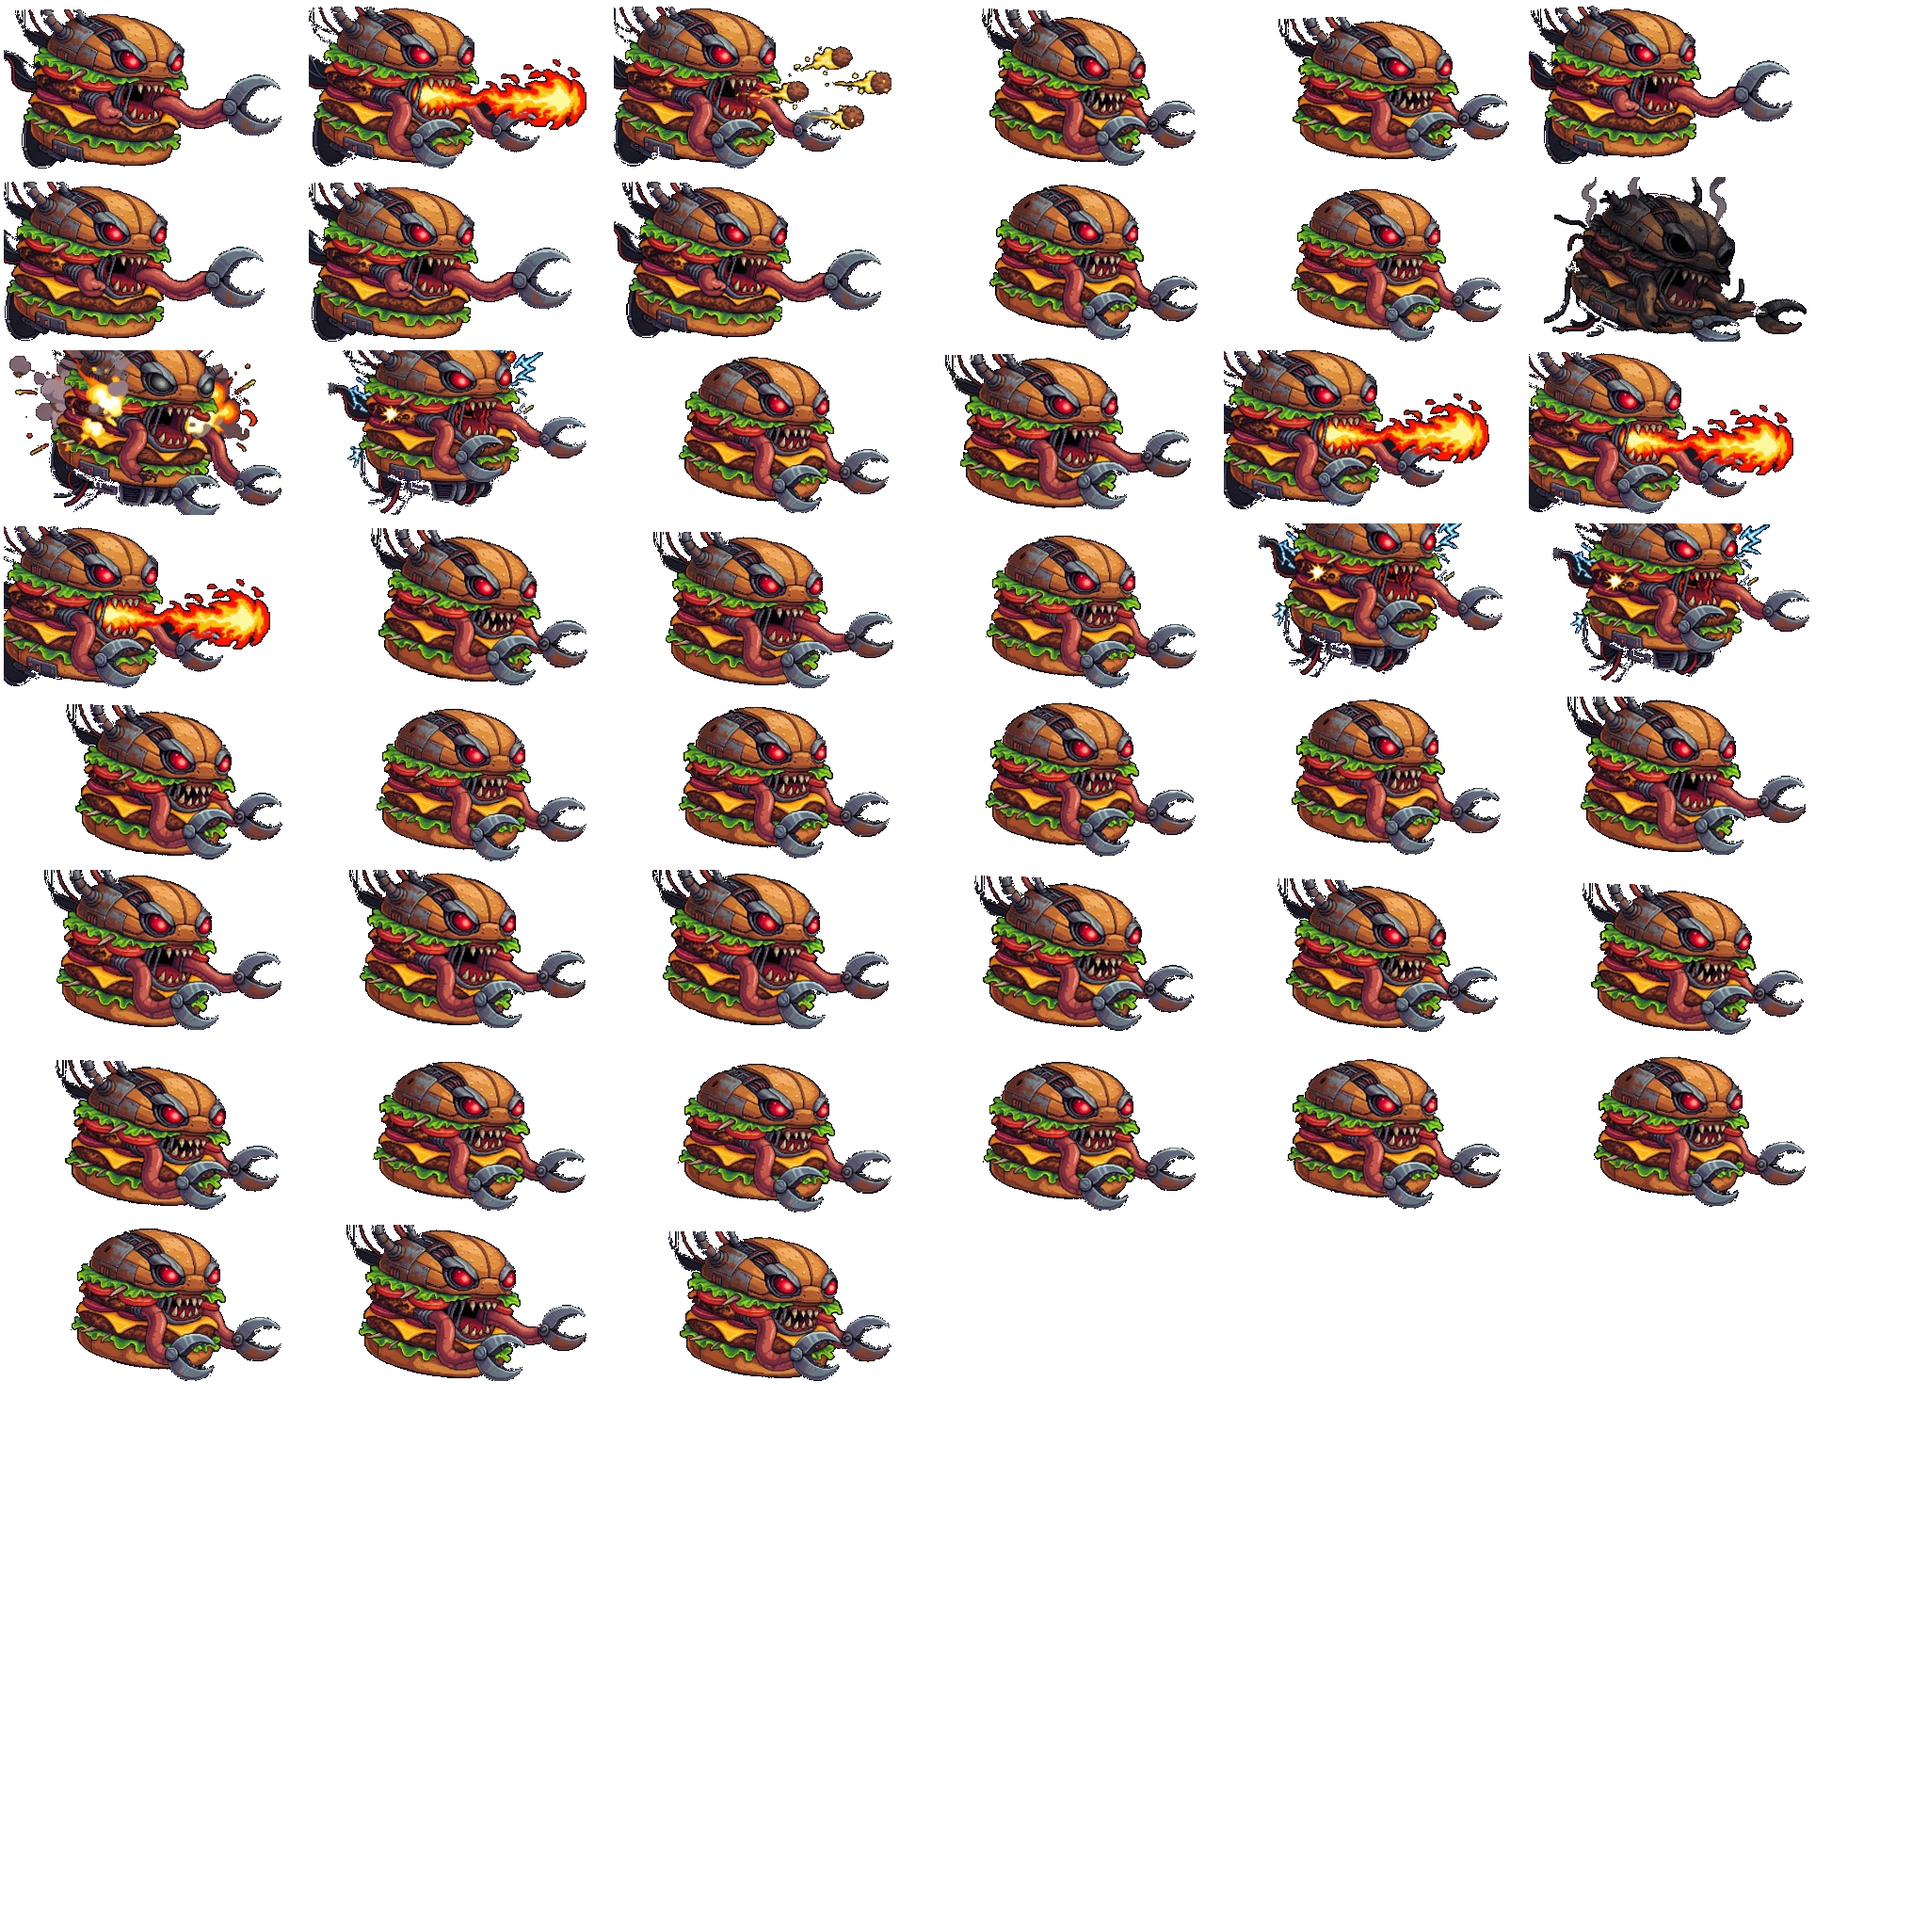
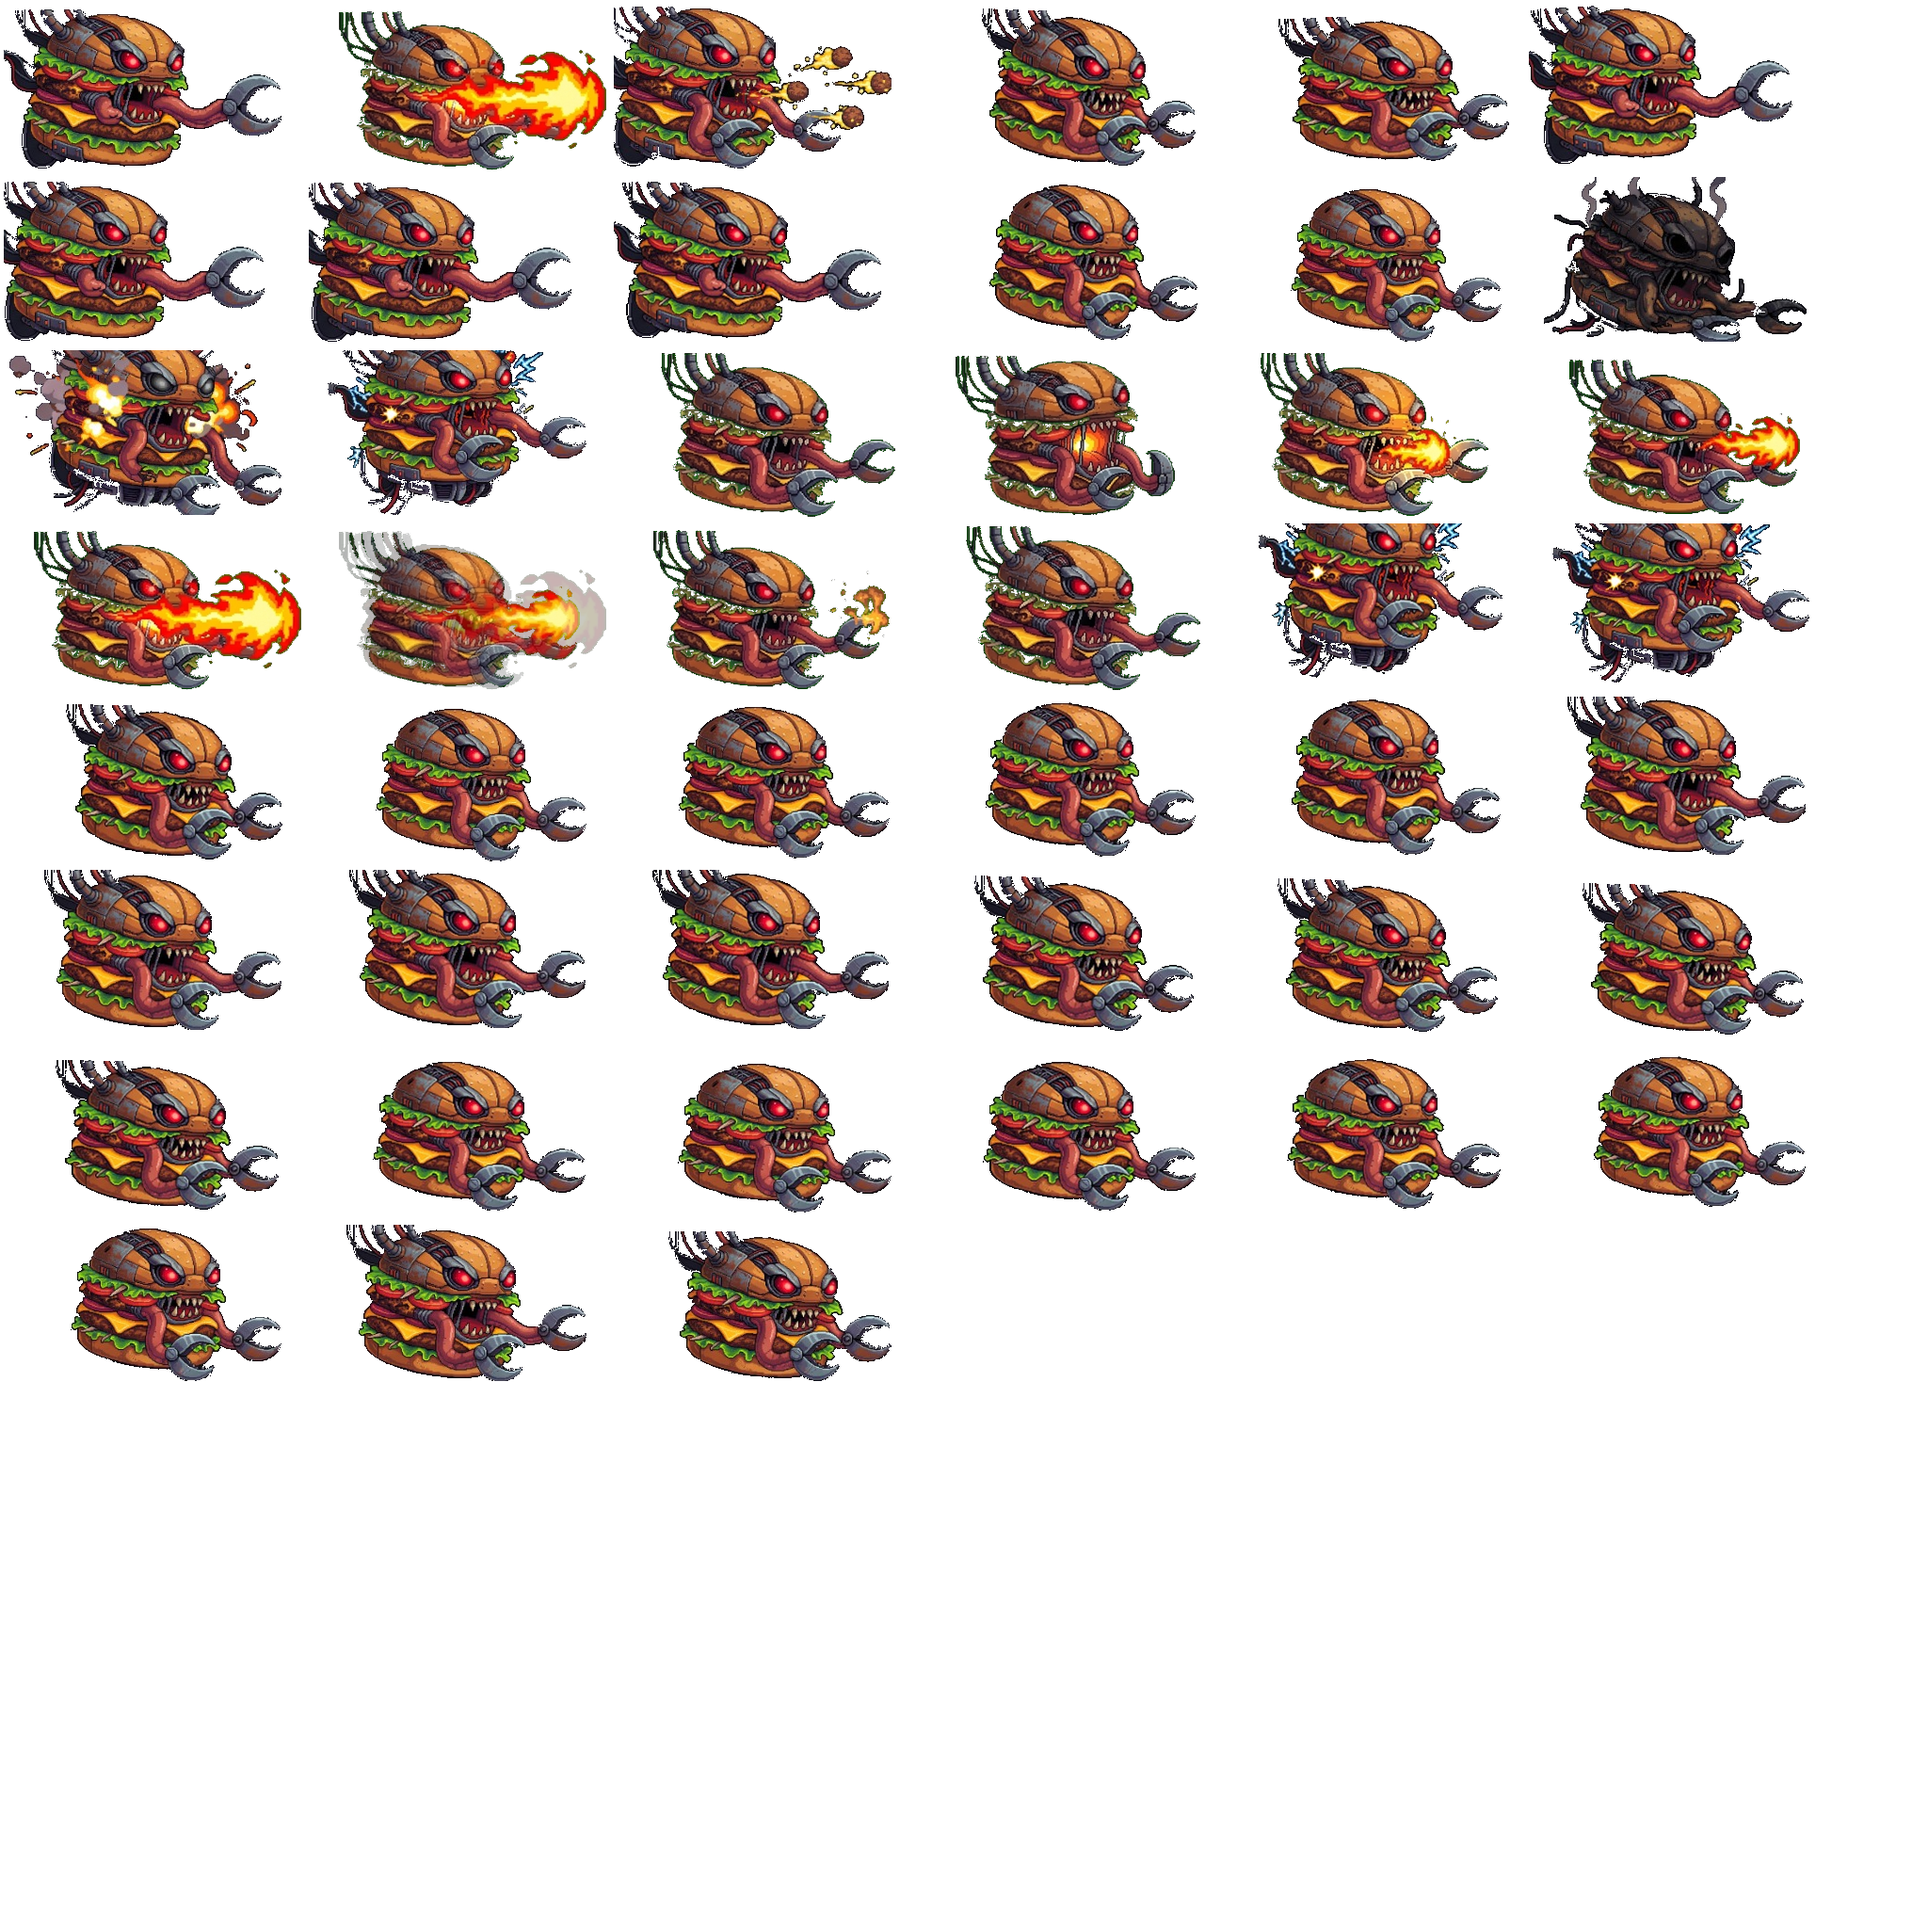
feat(boss): animacion fluida de flama de 6 fotogramas orientada al chef v116

diff --git a/js/kiloburner.js b/js/kiloburner.js
@@ -694,24 +694,52 @@ class KiloburnerBoss {
       if (this.stateTimer <= 0) this.state = 'idle';
     } else if (this.state === 'flame') {
       this.stateTimer++;
+      if (this.stateTimer === 1 && player) {
+        this.facing = (player.x < this.x) ? -1 : 1;
+      }
       // Head tilts forward slightly during flame burst
       this.lungeX = this.facing * 8;
-      const flameW = 45;
-      const flameH = 24;
-      const flameX = (this.facing === -1)
-        ? (this.x + this.lungeX - this.logicalW / 2 - flameW + 12)
-        : (this.x + this.lungeX + this.logicalW / 2 - 12);
-      const flameY = this.y - this.logicalH * 0.65;
-
-      this.flameHitbox = { x: flameX, y: flameY, w: flameW, h: flameH };
 
       // Cadence requested: 3 flames separated by 2 seconds (120 frames at 60 FPS), then wait 5 seconds (300 frames)!
       // Shot 1 fires at frame 20
       // Shot 2 fires at frame 140 (20 + 120)
       // Shot 3 fires at frame 260 (140 + 120)
       const fireFrames = [20, 140, 260];
-      const isFiring = fireFrames.some(f => (this.stateTimer >= f && this.stateTimer < f + 25));
+      const relT = (this.stateTimer < 240) ? (this.stateTimer % 120) : (this.stateTimer - 240);
+
+      // Hitbox dynamically scales with the flame sprite progression (Poses 3 -> 4 -> 5 -> 6)
+      let flameW = 45;
+      let flameH = 24;
+      let isFiring = false;
+
+      if (relT >= 20 && relT < 28) {
+        // Pose 3: Initial Burst
+        isFiring = true;
+        flameW = 40;
+        flameH = 22;
+      } else if (relT >= 28 && relT < 40) {
+        // Pose 4: Flame Jet
+        isFiring = true;
+        flameW = 65;
+        flameH = 28;
+      } else if (relT >= 40 && relT < 76) {
+        // Pose 5 & Pulse: Full Blast Massive Flamethrower
+        isFiring = true;
+        flameW = 85;
+        flameH = 34;
+      } else if (relT >= 76 && relT < 90) {
+        // Pose 6: Dissipating Embers & Smoke
+        isFiring = true;
+        flameW = 45;
+        flameH = 22;
+      }
+
       this.flameActive = isFiring;
+      const flameX = (this.facing === -1)
+        ? (this.x + this.lungeX - this.logicalW / 2 - flameW + 12)
+        : (this.x + this.lungeX + this.logicalW / 2 - 12);
+      const flameY = this.y - this.logicalH * 0.65;
+      this.flameHitbox = { x: flameX, y: flameY, w: flameW, h: flameH };
 
       // Launch flying flame projectile at each designated interval
       if (fireFrames.includes(this.stateTimer)) {
@@ -1039,20 +1067,26 @@ class KiloburnerBoss {
     } else if (this.state === 'flame') {
       // 3-shot burst animation rhythm matching 120-frame (2s) intervals
       const relT = (this.stateTimer < 240) ? (this.stateTimer % 120) : (this.stateTimer - 240);
-      if (relT < 12) {
-        spriteName = 'flame_00'; // Preparing flame
+      if (relT < 10) {
+        spriteName = 'flame_00'; // Pose 1: Preparing flame / mouth open
       } else if (relT < 20) {
-        spriteName = 'flame_01'; // Ignition spark in mouth
-      } else if (relT < 35) {
-        spriteName = 'flame_02'; // Incandescent mouth launch burst
-      } else if (relT < 50) {
-        spriteName = 'flame_03'; // Flame discharge thrust
-      } else if (relT < 65) {
-        spriteName = 'flame_04'; // Exhaust dissipation
-      } else if (relT < 80) {
-        spriteName = 'flame_06'; // Mouth closing
+        spriteName = 'flame_01'; // Pose 2: Fiery furnace charging glow inside mouth
+      } else if (relT < 28) {
+        spriteName = 'flame_02'; // Pose 3: Incandescent mouth launch burst
+      } else if (relT < 40) {
+        spriteName = 'flame_03'; // Pose 4: Expanding flame jet thrust
+      } else if (relT < 52) {
+        spriteName = 'flame_04'; // Pose 5: Full blast flamethrower
+      } else if (relT < 64) {
+        spriteName = 'flame_05'; // Pose 5/Pulse: Flame turbulence pulse
+      } else if (relT < 76) {
+        spriteName = 'flame_04'; // Pose 5: Sustained blast
+      } else if (relT < 90) {
+        spriteName = 'flame_06'; // Pose 6: Exhaust smoke & dissipating embers
+      } else if (relT < 102) {
+        spriteName = 'flame_07'; // Pose 1: Mouth closing & recovery
       } else {
-        spriteName = 'hover_04'; // Hovering between burst shots
+        spriteName = 'hover_04'; // Hovering smoothly between burst shots
       }
     } else if (this.state === 'meatball') {
       spriteName = (this.stateTimer % 10 < 5) ? 'attack_meatball' : 'hover_08';

diff --git a/index.html b/index.html
@@ -189,20 +189,20 @@
   </div>
 
   <!-- Game Scripts -->
-  <script src="js/chef_atlas.js?v=115"></script>
-  <script src="js/enemies_atlas.js?v=115"></script>
-  <script src="js/items_atlas.js?v=115"></script>
-  <script src="js/kiloburner_atlas.js?v=115"></script>
-  <script src="js/audio.js?v=115"></script>
-  <script src="js/sprites.js?v=115"></script>
-  <script src="js/kiloburner.js?v=115"></script>
-  <script src="js/map.js?v=115"></script>
-  <script src="js/burger.js?v=115"></script>
-  <script src="js/entities.js?v=115"></script>
-  <script src="js/stage_themes.js?v=115"></script>
-  <script src="js/controls.js?v=115"></script>
-  <script src="js/godot_gfx_engine.js?v=115"></script>
-  <script src="js/game.js?v=115"></script>
+  <script src="js/chef_atlas.js?v=116"></script>
+  <script src="js/enemies_atlas.js?v=116"></script>
+  <script src="js/items_atlas.js?v=116"></script>
+  <script src="js/kiloburner_atlas.js?v=116"></script>
+  <script src="js/audio.js?v=116"></script>
+  <script src="js/sprites.js?v=116"></script>
+  <script src="js/kiloburner.js?v=116"></script>
+  <script src="js/map.js?v=116"></script>
+  <script src="js/burger.js?v=116"></script>
+  <script src="js/entities.js?v=116"></script>
+  <script src="js/stage_themes.js?v=116"></script>
+  <script src="js/controls.js?v=116"></script>
+  <script src="js/godot_gfx_engine.js?v=116"></script>
+  <script src="js/game.js?v=116"></script>
 
   <!-- Service Worker Registration for Offline Play & PWA -->
   <script>

diff --git a/js/sprites.js b/js/sprites.js
@@ -106,7 +106,7 @@ class SpriteManager {
 
   initKiloburnerAtlas() {
     this.kiloburnerAtlasImg = new Image();
-    this.kiloburnerAtlasImg.src = 'assets/kiloburner_atlas.png?v=113';
+    this.kiloburnerAtlasImg.src = 'assets/kiloburner_atlas.png?v=116';
     this.kiloburnerAtlasLoaded = false;
     this.kiloburnerAtlasImg.onload = () => {
       this.kiloburnerAtlasLoaded = true;

diff --git a/sw.js b/sw.js
@@ -1,4 +1,4 @@
-const CACHE_NAME = 'burgerpanic-mobile-v115';
+const CACHE_NAME = 'burgerpanic-mobile-v116';
 const ASSETS = [
   './',
   './index.html',
